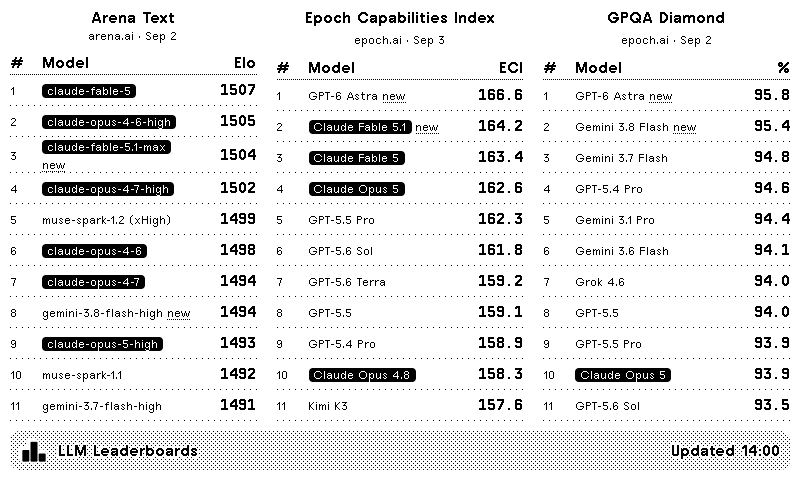
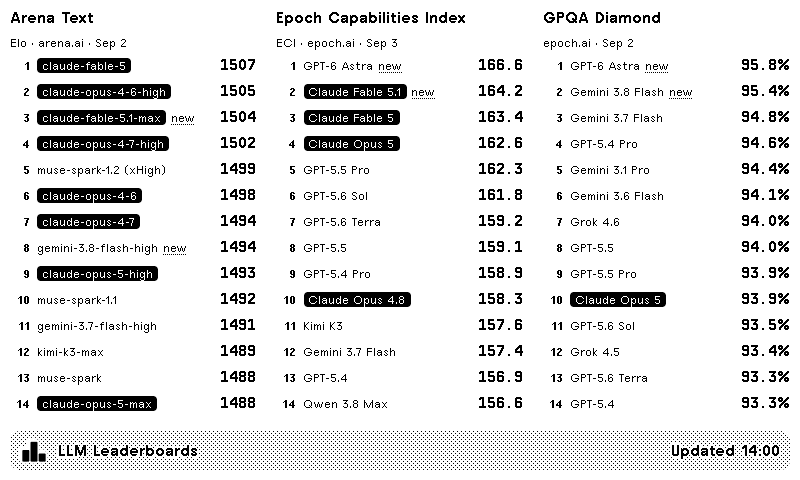
feat: framework Columns/Item rows that fill the screen, no row caps
Rework requested by TRMNL's recipe review (wasted space on TRMNL X). Each board is a
header line plus one framework item per row inside a Columns container; the Overflow
engine hides the rows that do not fit and splits a board over two columns where it has
the width (one board on any screen, every board on the X in portrait). Text steps up on
large screens. The function returns up to 60 rows and "Models per leaderboard" becomes
an optional cap (empty = as many as fit). Unit and price legend move to the header line
since a column head cannot repeat per column; % and hour scores carry their unit.

diff --git a/dev/smoke.py b/dev/smoke.py
@@ -23,34 +23,36 @@ ONLINE = fx.build_variables(SOURCES)
 NO_SOURCES = fx.build_variables({}, offline=True)
 
 # name -> (custom_fields, variables, expected in full, absent from full, expected row count in full or None)
+# Row counts are the rows in the markup (every row the function returned, up to 60 per board);
+# the Overflow engine hides the ones that do not fit when the screen is rendered.
 CASES = {
     "default": (
         {}, ONLINE,
         ["Arena Text", "arena.ai", "Sep 2", "claude-fable-5", "Anthropic", "1507",
          "Epoch Capabilities Index", "epoch.ai", "GPT-6 Astra", "166.6", "Elo", "ECI", "LLM Leaderboards", "Updated 14:00",
          "$ in/out", "10/50", "5/25", "GPT-6 Astra OpenAI new"],
-        ["Data unavailable", "Google DeepMind", "Claude Fable 5 Anthropic new"], 20),
+        ["Data unavailable", "Google DeepMind", "Claude Fable 5 Anthropic new"], 60),
     "no_prices": (
         {"show_prices": "no"}, ONLINE,
-        ["Arena Text", "1507", "GPT-6 Astra OpenAI new"], ["$ in/out", "10/50"], 20),
+        ["Arena Text", "1507", "GPT-6 Astra OpenAI new"], ["$ in/out", "10/50"], 60),
     "prices_source_down": (
         {}, {**ONLINE, "sources": {k: v for k, v in SOURCES.items() if "openrouter" not in k}},
-        ["Arena Text", "1507", "Epoch Capabilities Index", "GPT-6 Astra OpenAI new"], ["$ in/out", "10/50", "claude-fable-5 Anthropic new"], 20),
+        ["Arena Text", "1507", "Epoch Capabilities Index", "GPT-6 Astra OpenAI new"], ["$ in/out", "10/50", "claude-fable-5 Anthropic new"], 60),
     "three_boards": (
         {"board_3": "epoch_gpqa"}, ONLINE,
-        ["Arena Text", "Epoch Capabilities Index", "GPQA Diamond", "95.8"], ["Data unavailable"], 30),
+        ["Arena Text", "Epoch Capabilities Index", "GPQA Diamond", "95.8"], ["Data unavailable"], 95),
     "livebench": (
         {"board_1": "livebench", "board_2": "livebench_agentic", "board_3": "epoch_metr"}, ONLINE,
         ["LiveBench", "livebench.ai", "Jun 25", "claude-fable-5-1-max-effort", "83.4",
          "LiveBench Agentic", "METR Time Horizon", "Claude Mythos Preview", "17.4"],
-        ["Data unavailable"], 30),
+        ["Data unavailable"], 147),
     "epoch_tables": (
         {"board_1": "epoch_hle", "board_2": "epoch_terminalbench", "board_3": "epoch_swebench", "max_models": "8"}, ONLINE,
         ["Humanity's Last Exam", "Claude Fable 5.1", "46.5", "Terminal-Bench", "GPT-5.5", "84.7", "SWE-bench Verified", "Claude Opus 4.7", "83.5"],
         ["Data unavailable"], 24),
     "aa_no_key": (
         {"board_1": "aa_intelligence", "board_2": "arena_code"}, ONLINE,
-        ["AA Intelligence", "Artificial Analysis API key", "Arena Code", "gpt-6-astra-max", "1796"], ["Data unavailable"], 10),
+        ["AA Intelligence", "Artificial Analysis API key", "Arena Code", "gpt-6-astra-max", "1796"], ["Data unavailable"], 20),
     "aa_with_key": (  # variants such as "(max)" collapse to the plain model name
         {"board_1": "aa_intelligence", "board_2": "aa_coding", "aa_api_key": "test-key", "max_models": "5"}, ONLINE,
         ["AA Intelligence", "artificialanalysis.ai", "Sample Model A Sample Lab", "78.4", "AA Coding", "Sample Model B Example AI new", "73.5", "Index",
@@ -61,33 +63,33 @@ CASES = {
         ["11 Kimi K3"], ["GPT-6 Astra", "Claude Fable 5.1", "claude-fable-5 "], None),
     "highlight": (
         {"highlight": "Claude, gpt-6"}, ONLINE,
-        ["label--filled"], [], 20),
+        ["label--filled"], [], 60),
     "max_models_3": (
         {"max_models": "3"}, ONLINE, ["claude-fable-5.1-max"], ["claude-opus-4-7-high"], 6),
     "custom_title": (
-        {"title": "Frontier models"}, ONLINE, ["Frontier models"], ["LLM Leaderboards"], 20),
+        {"title": "Frontier models"}, ONLINE, ["Frontier models"], ["LLM Leaderboards"], 60),
     "lang_fr": (
         {"language": "fr"}, ONLINE,
-        ["Classements LLM", "Modèle", "Mis à jour 14:00", "2 Sep", "nouveau"], ["Model", "Updated", " new "], 20),
+        ["Classements LLM", "Mis à jour 14:00", "2 Sep", "nouveau"], ["Updated", " new "], 60),
     "lang_auto_fr_locale": (
         {"language": "auto"}, {**ONLINE, "trmnl": {**ONLINE["trmnl"], "user": {"locale": "fr-FR"}}},
-        ["Classements LLM", "Modèle"], ["Model"], 20),
+        ["Classements LLM", "nouveau"], [" new "], 60),
     "one_board": (
-        {"board_2": "none"}, ONLINE, ["Arena Text"], ["Epoch Capabilities Index"], 10),
+        {"board_2": "none"}, ONLINE, ["Arena Text"], ["Epoch Capabilities Index"], 20),
     "no_board": (
         {"board_1": "none", "board_2": "none"}, ONLINE, ["Data unavailable", "No leaderboard selected"], ["Arena Text"], 0),
     "unknown_board": (
-        {"board_1": "made_up"}, ONLINE, ["Unknown leaderboard", "Epoch Capabilities Index"], ["Data unavailable"], 10),
+        {"board_1": "made_up"}, ONLINE, ["Unknown leaderboard", "Epoch Capabilities Index"], ["Data unavailable"], 40),
     "source_down": (  # every board keeps its title and shows its own error
         {}, NO_SOURCES, ["Arena Text", "Epoch Capabilities Index", "offline"], ["Data unavailable"], 0),
     "one_source_down": (
         {}, {**ONLINE, "sources": {k: v for k, v in SOURCES.items() if "epoch.ai" not in k}},
-        ["Arena Text", "claude-fable-5", "Epoch Capabilities Index", "offline"], ["Data unavailable"], 10),
+        ["Arena Text", "claude-fable-5", "Epoch Capabilities Index", "offline"], ["Data unavailable"], 20),
     "no_transform_output": (
         {}, {**fx.FROZEN_CLOCK, "boards": None}, ["Data unavailable", "Serverless"], ["Arena Text"], 0),
     "livebench_version_field": (
         {"board_1": "livebench", "board_2": "none", "livebench_version": "2026-06-25"}, ONLINE,
-        ["LiveBench", "Jun 25", "claude-fable-5-1-max-effort"], ["Data unavailable"], 10),
+        ["LiveBench", "Jun 25", "claude-fable-5-1-max-effort"], ["Data unavailable"], 57),
 }
 
 VIEWS = ["full", "half_horizontal", "half_vertical", "quadrant"]
@@ -108,8 +110,9 @@ def text_of(path: Path) -> str:
 
 
 def rows_of(path: Path) -> int:
+    """Leaderboard rows in the markup (the Overflow engine hides the ones that do not fit at render time)."""
     raw = path.read_text(encoding="utf-8")
-    return sum(len(re.findall(r"<tr", body)) for body in re.findall(r"<tbody>(.*?)</tbody>", raw, flags=re.S))
+    return len(re.findall(r'<div class="item">', raw))
 
 
 def main() -> int:

diff --git a/src/transform.py b/src/transform.py
@@ -51,8 +51,7 @@ USER_AGENT = "trmnl-llm-leaderboards/1.0 (+https://github.com/adechassey/trmnl-l
 TIME_BUDGET = 4.0    # seconds of network time per run (TRMNL stops the function at 5 s)
 FETCH_TIMEOUT = 3.5  # seconds per request
 MAX_BOARDS = 3
-MAX_MODELS = 15
-DEFAULT_MODELS = 10
+MAX_MODELS = 60      # rows per board; the views hide the rows that do not fit their screen
 
 ARENA_DATA = "https://raw.githubusercontent.com/oolong-tea-2026/arena-ai-leaderboards/main/data/"
 ARENA_POINTER = ARENA_DATA + "latest.json"
@@ -157,7 +156,7 @@ def run(input):
 
     ctx = Context(
         fetcher=Fetcher(seed=_seed_sources(input), offline=bool(input.get("offline")), budget=TIME_BUDGET),
-        max_models=_clamp(_to_int(cf.get("max_models"), DEFAULT_MODELS), 1, MAX_MODELS),
+        max_models=_clamp(_to_int(cf.get("max_models"), MAX_MODELS), 1, MAX_MODELS),
         open_only=_yes(cf.get("open_weights_only"), False),
         prices=_yes(cf.get("show_prices"), True),
         aa_key=_aa_key(cf),

diff --git a/dev/make_fixture.py b/dev/make_fixture.py
@@ -24,7 +24,7 @@ DEFAULT_FIELDS = {
     "board_1": "arena_text",
     "board_2": "epoch_eci",
     "board_3": "none",
-    "max_models": "10",
+    "max_models": "",
     "open_weights_only": "no",
     "show_prices": "yes",
     "highlight": "",

diff --git a/README.md b/README.md
@@ -11,11 +11,15 @@ Available leaderboards:
 | [LiveBench](https://livebench.ai) | Overall, Reasoning, Coding, Agentic Coding, Mathematics | Score computed like the official table (mean of the category averages) |
 | [Artificial Analysis](https://artificialanalysis.ai) | Intelligence, Coding and Agentic indices | Needs a free API key (100 requests per day). One row per model, best reasoning setting |
 
-Each leaderboard shows rank, model, organisation, score, price, and the source with the date of its latest data. The price column reads `10/50` for $10 per million input tokens and $50 per million output tokens; it comes from [OpenRouter](https://openrouter.ai/models) (from Artificial Analysis on its own leaderboards) and is matched by model name. Models released in the last two weeks are marked "new". Models matching the "Highlight" words are inverted, and an "open-weights only" switch keeps the open models with their real ranks. All four TRMNL screen formats are supported (full, both halves, quadrant for mashups). On-screen labels are available in English and French, auto-detected from the TRMNL account language or forced in the settings.
+Each leaderboard shows rank, model, organisation, score, price, and the source with the date of its latest data. The price column reads `10/50` for $10 per million input tokens and $50 per million output tokens; it comes from [OpenRouter](https://openrouter.ai/models) (from Artificial Analysis on its own leaderboards) and is matched by model name. Models released in the last two weeks are marked "new". Models matching the "Highlight" words are inverted, and an "open-weights only" switch keeps the open models with their real ranks. All four TRMNL screen formats are supported (full, both halves, quadrant for mashups), on the TRMNL OG and on the TRMNL X in landscape and portrait: a leaderboard shows as many rows as fit its space and, when it has the width, spreads them over two columns. On-screen labels are available in English and French, auto-detected from the TRMNL account language or forced in the settings.
 
 ![Full screen with two leaderboards](docs/screenshots/full.png)
 
 ![Full screen with three leaderboards and highlighted models](docs/screenshots/full_three_boards.png)
+
+![TRMNL X, two leaderboards](docs/screenshots/trmnl_x_full.png)
+
+![TRMNL X in portrait, two leaderboards on two columns each](docs/screenshots/trmnl_x_portrait_full.png)
 
 ## Prerequisites
 
@@ -37,9 +41,9 @@ Then open the plugin on trmnl.com and fill in the fields:
 | Field | Purpose |
 |---|---|
 | Leaderboard 1, 2, 3 | Which leaderboards to show. The first one is on every layout, the second joins it on the full and half layouts, the third only on the full layout |
-| Models per leaderboard | Rows on the full layout, 1 to 15. The TRMNL OG fits 12 (11 with three leaderboards), the TRMNL X shows them all; the half and quadrant layouts show 5 rows on the OG and up to 8 on the X |
+| Models per leaderboard | Empty = as many rows as fit on the screen (up to 60 per leaderboard). Set a number to stop earlier, e.g. 10 for a top 10 |
 | Open-weights models only | Keeps open-weights models where the source says which ones are (Arena, Epoch AI) |
-| Show prices | Price column and "new" badges (default on). With three leaderboards the price column only fits on the TRMNL X |
+| Show prices | Price column and "new" badges (default on). With three leaderboards the price column only fits on the TRMNL X; the organisation after the model name only fits on the TRMNL X in landscape |
 | Highlight | Comma-separated words, e.g. `claude, mistral`: matching models are shown inverted |
 | Screen title | Empty = "LLM Leaderboards" |
 | Artificial Analysis API key | Only for the Artificial Analysis leaderboards |
@@ -77,7 +81,7 @@ git update-index --skip-worktree .trmnlp.yml
 |---|---|
 | `src/settings.yml` | Plugin config: polling URL, form fields, Serverless language |
 | `src/transform.py` | Serverless function: fetches the selected leaderboards, normalises and ranks them |
-| `src/shared.liquid` | Prepended to every view: the `board` and `title_bar` templates, EN/FR labels |
+| `src/shared.liquid` | Prepended to every view: the `board` (header + one `item` per row, Overflow columns) and `title_bar` templates, EN/FR labels |
 | `src/full.liquid` | Full screen, 800×480, up to three leaderboards side by side |
 | `src/half_horizontal.liquid`, `src/half_vertical.liquid`, `src/quadrant.liquid` | Mashup formats |
 | `assets/` | Plugin icon (SVG and 512×512 PNG) |
@@ -99,11 +103,11 @@ On every refresh, TRMNL polls a 50-byte pointer to the latest Arena snapshot, th
 
 Prices are matched by normalised model name: vendor prefixes, dates and run variants such as `-high`, `(xHigh)` or `-max-effort` are ignored, so `claude-opus-4-6-high` on Arena, `Claude Opus 4.6` at Epoch and `Anthropic: Claude Opus 4.6` on OpenRouter are the same model. About nine models out of ten get a price; the others show none. The "new" badge uses the release date from Epoch AI or Artificial Analysis, or the OpenRouter listing date for Arena and LiveBench.
 
-It returns one `boards` entry per leaderboard with at most 15 rows, which keeps the merge variables far below TRMNL's 100 KB cap. A leaderboard that cannot be loaded shows its own error message; the others still render. The function gives itself 4 seconds of network time out of TRMNL's 5 second limit, and every fetch has a timeout.
+It returns one `boards` entry per leaderboard with at most 60 rows (or the "Models per leaderboard" value), about 20 KB for three leaderboards, far below TRMNL's 100 KB cap on merge variables. A leaderboard that cannot be loaded shows its own error message; the others still render. The function gives itself 4 seconds of network time out of TRMNL's 5 second limit, and every fetch has a timeout.
 
 Why the function fetches instead of TRMNL polling everything: the Arena snapshot lives at a dated path that only the pointer knows, the Epoch tables are inside a zip, and only the selected leaderboards should be downloaded. TRMNL's publishing checker (Chef) flags HTTP calls in Serverless functions as a hint; the calls here are few and small. Details in `docs/research.md`.
 
-Finally the Liquid views render the boards: `shared.liquid` defines a `board` template used by every layout, so a layout only decides how many boards and rows it shows.
+Finally the Liquid views render the boards: `shared.liquid` defines a `board` template used by every layout, so a layout only decides how many boards it shows, how they are arranged and how many columns a board may use. A board is a header line and one framework `item` per row inside a `columns` container; the framework's Overflow engine measures the rows at render time, hides the ones that do not fit the board's height and splits them over two columns where the board is wide enough (a single leaderboard on any screen, every leaderboard on the TRMNL X in portrait). Text steps up one size on the TRMNL X (`lg:` classes).
 
 ## Attribution
 

diff --git a/docs/research.md b/docs/research.md
@@ -121,7 +121,7 @@ If TRMNL does not recognise the `text/plain` JSON, the function fetches the poin
 
 ## 5. TRMNL constraints kept in mind
 
-- Merge data cap 100 KB: a board is ~1 KB per 10 rows.
+- Merge data cap 100 KB: a board is ~1 KB per 10 rows, so 3 boards of 60 rows are ~20 KB.
 - Serverless: Python, 5 s, 128 MB, network access included (`requests` preinstalled; the function
   uses `urllib` from the standard library so it also runs unchanged under trmnlp).
 - `trmnlp` quirk: `{{ env.X }}` is only rendered in polling URL/headers/body, not in the field
@@ -129,24 +129,61 @@ If TRMNL does not recognise the `text/plain` JSON, the function fetches the poin
 - Chef hints: no inline styles, no `<style>`, no HTTP in the function (see §2). Layouts use
   framework classes only; the outermost node of every view is the `layout` element.
 - Framework classes used (checked in `https://trmnl.com/css/latest/plugins.css`): `layout--row`,
-  `layout--stretch-x`, `gap--large`, `portrait:flex--col`, `flex--between`, `flex--bottom`,
-  `table--small`, `w--8`, `w--16`, `text--right`, `label--filled`, `label--gray` (same rule as
-  the older `label--gray-out`), `label--underline`, `value--xxsmall`, `value--tnums`.
-  `label--xsmall` and `title--xsmall` do not exist. `layout--stretch > *` already gives the
-  children `flex: 1 1 0%`, so a `stretch-x` on them is redundant (Chef's review, 2026-09-11).
+  `layout--col`, `layout--stretch`, `portrait:layout--col`, `gap--large`, `gap--small`,
+  `gap--xsmall`, `flex--between`, `flex--bottom`, `flex--center-y`, `grow`,
+  `shrink-0`, `w--full`, `w--5`, `lg:w--7`, `w--16`, `lg:w--20`, `h--full`, `h--[48cqh]`, `portrait:h--[32cqh]`,
+  `text--right`, `hidden`, `lg:inline`, `lg:block`, `lg:hidden`, `lg:portrait:hidden`,
+  `columns`, `column`, `item`, `content`, `label--filled`, `label--gray`,
+  `label--underline`, `lg:label--base`, `lg:title--base`, `lg:portrait:title--small`,
+  `value--xxsmall`, `lg:value--xsmall`, `value--tnums`, `text--bold`. `label--xsmall` and `title--xsmall`
+  do not exist. `layout--stretch > *` already gives the children `flex: 1 1 0%`, so a
+  `stretch-x` on them is redundant (Chef's review, 2026-09-11).
 - `{% template %}` partials take explicit arguments with `{% render %}`; loops inside work.
-- The framework's table overflow engine (`data-table-limit="true"`, in `plugins.js`) hides
-  rows beyond `table.parentElement.clientHeight` minus the `thead` height. Inside a board
-  column that height is the content height, so nothing is hidden: each layout caps the rows
-  in Liquid instead (measured on the OG: 12 rows per board on the full layout, 11 when the
-  three-board header wraps to two lines, 5 rows on the half and quadrant layouts) and gives
-  the extra rows `hidden lg:table-row`, so the TRMNL X shows up to 15 / 8. `layout--top`
-  leaves short content top-aligned but the columns unstretched; `layout--stretch` stretches
-  them and their `flex--col` content still starts at the top.
+- Rows are framework `item`s in a `columns` container with `data-overflow-max-cols` (base,
+  `-lg`, `-lg-portrait`): the Overflow engine (`plugins.js`) measures the items, hides those
+  that exceed the container's height budget and, when the board is wide enough, spreads them
+  over up to N columns (best fit: the plan showing the most rows). Findings while adopting it
+  (framework 3.3, 2026-09-16, review by Mario at TRMNL: "wasted space on TRMNL X, use smart
+  columns and `lg:` sizes"):
+  - The budget is the parent's content box below the `columns` element, minus the height of
+    every following sibling (the engine assumes a vertical flow). So each board is wrapped in
+    its own `flex flex--col` (header, then the `columns` as last child) and the wrappers are
+    the `layout--stretch` children: side by side they are stretched to the layout height.
+  - Stacked (`layout--col`: half vertical, full in portrait), a wrapper is a flex item on the
+    main axis and `min-height: auto` keeps it as tall as its rows, so nothing is hidden and
+    the layout is cut. An explicit height fixes it: `h--full` for one board, `h--[48cqh]` /
+    `h--[32cqh]` for two / three (container-query units relative to the layout, which is a
+    `container-type: size`). With `flex: 1 1 0%` the boards then share the height equally.
+  - The engine measures in staging columns that are plain `.column` elements: a gap class on
+    the real `.column` is ignored there and the plan ends two rows short. Keep the default
+    column gap.
+  - The previous approach, a `table` with `data-table-limit`, had no usable budget inside a
+    board (parent height = content height) and needed Liquid row caps per layout and screen
+    (`hidden lg:table-row`), i.e. the artificial limits the review objected to.
+  - Group headers (`data-group-header` labels) are duplicated as text-only gray labels in the
+    next column, so a multi-cell column head cannot be a group header; the unit and the price
+    legend moved to the board's header line instead, and `%` / `h` scores carry their unit.
+  - Flex children get `min-width: 0` from the framework: the score and price cells need
+    `shrink-0`, otherwise a long model name squeezes the number onto its neighbour.
+  - `.column` has `justify-content: center` and `.flex--col` has `align-items: center`:
+    give full-width children `w--full`.
+  - The item's `.meta` bar with an `.index` is 10 px wide: two-digit ranks overflow it (and
+    look cramped on the X), so the rows are simple items with the rank as a bold,
+    right-aligned label (`text--bold`) in a `w--5 lg:w--7` cell. An outlined badge
+    (`label--outline`) was tried and rejected: boxy, and 1 px taller than the score.
+- Sizes: OG `label--small` (12 px) rows and `value--xxsmall` scores, TRMNL X `lg:label--base`
+  (16 px), `lg:value--xsmall` (20 px), `lg:title--base` board titles; in the narrow mashup
+  slots in portrait `lg:portrait:title--small`. The organisation is shown only where a row
+  has the width (TRMNL X, landscape, one or two boards): `hidden lg:inline lg:portrait:hidden`.
+- Device classes seen by the views (trmnl.com/api/models): TRMNL OG `screen--md screen--1bit`
+  800x480; TRMNL X (`v2`) `screen--lg screen--4bit screen--density-2x`, 1040x780 CSS px
+  (1872x1404 physical, scale 1.8), `screen--portrait` swaps the two. trmnlp renders any of
+  them with `/render/<view>.html?screen_classes=...&width=...&height=...`.
 
 ## 6. Ideas not done
 
 - A `latest/` directory in the Arena mirror (pull request upstream) would remove the pointer chain.
-- TRMNL X (`lg:`) could show more rows in the quadrant and half layouts.
+- The Overflow engine fills columns in order (the first column full, the rest in the
+  second): a single Arena board (20 rows in the mirror) leaves the second column short.
 - More Epoch tables are one line away in `BOARDS` (Vending-Bench 2, GDPval, Cybench, SciCode,
   WebDev Arena...).
